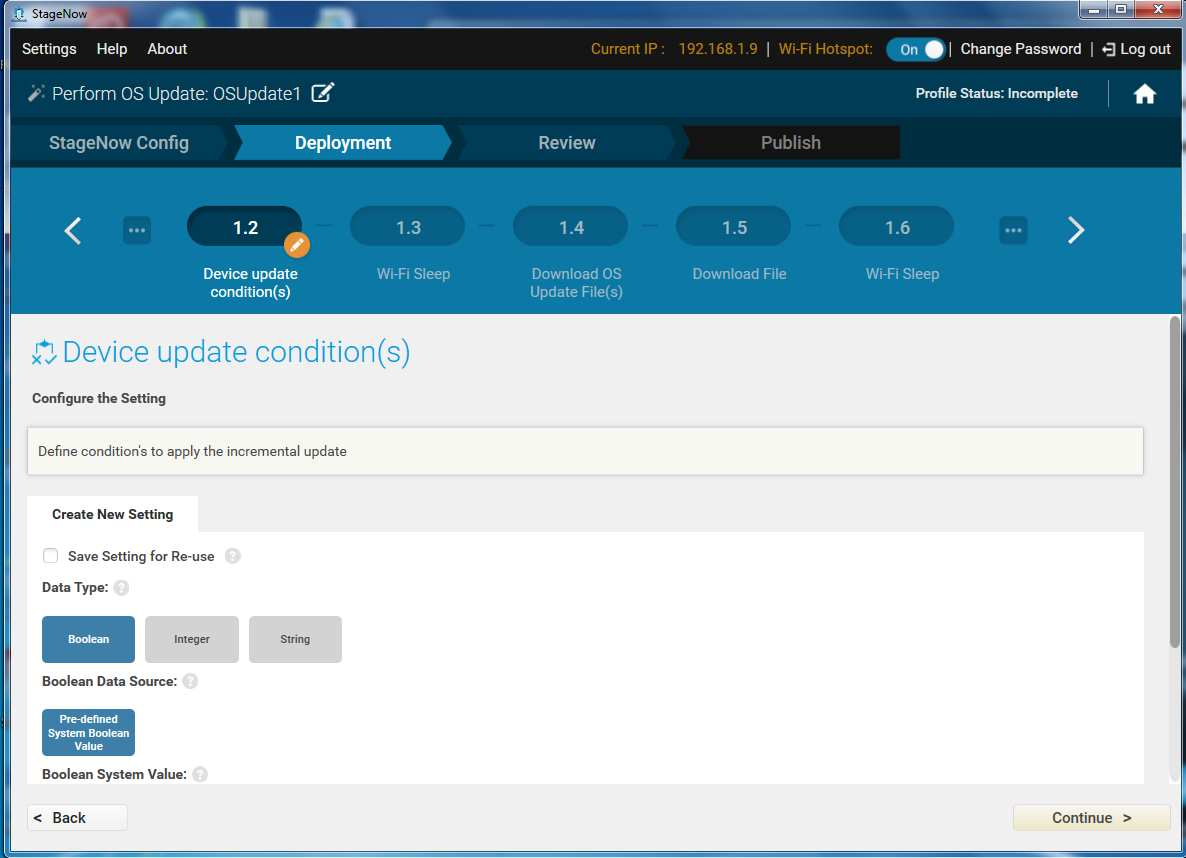
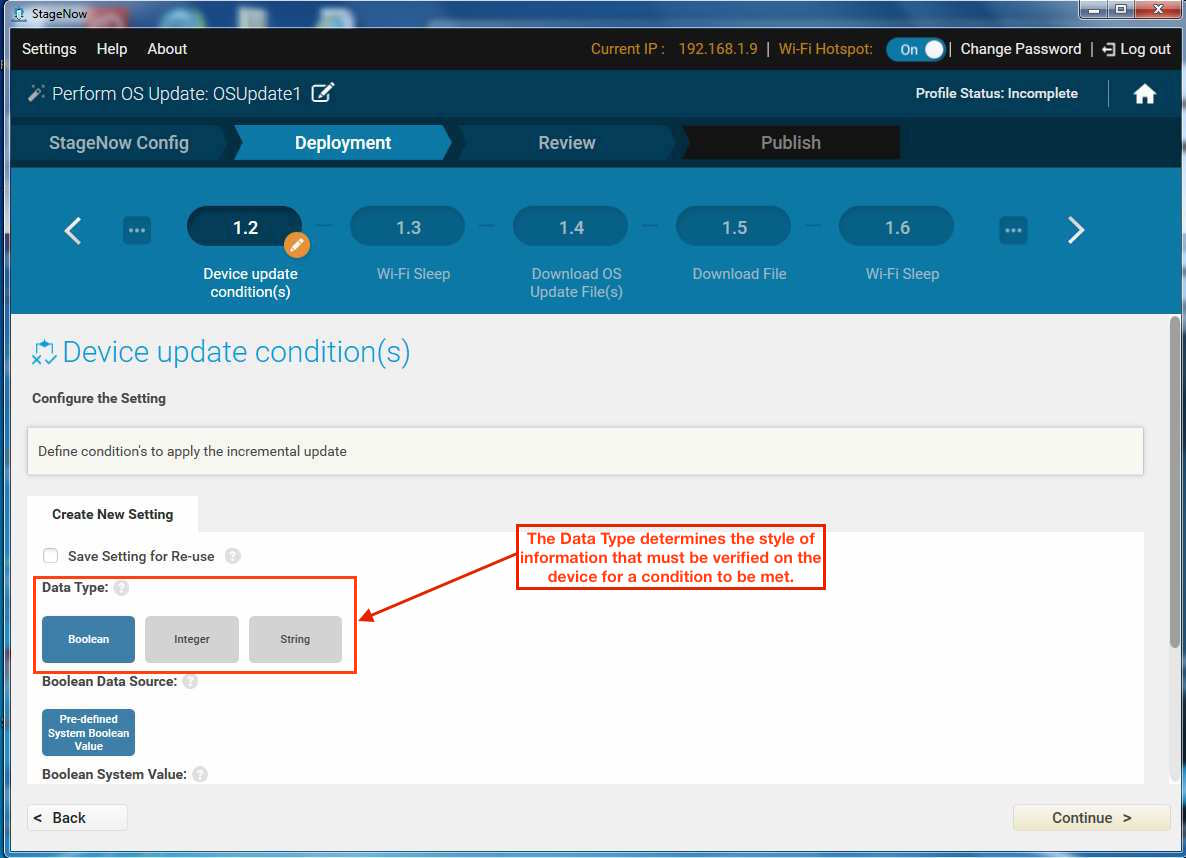
[TUT-23487] SN 2.10 update PerformOSupdate instructions, per eng; clean-up

diff --git a/src/stagenow/2-10/Profiles/osupdate/index.md b/src/stagenow/2-10/Profiles/osupdate/index.md
@@ -4,11 +4,16 @@ layout: guide.html
 product: StageNow
 productversion: '2.10'
 ---
-Use this Wizard to perform an OS update on a device. This applies an update or a patch to the OS by downloading a zip file to the device or using an existing zip file on the device.  This Wizard also allows you to connect to a network. 
 
-##Performing an OS Update
+## Overview
 
-To create a Perform OS Update profile:
+Use this Wizard to perform an OS update on a device. The OS Update action applies an update or patch to the OS by downloading a .zip file to the device or using a .zip file that exists on the device. This Wizard allows connection to a network. 
+
+-----
+
+## Perform OS Update
+
+**To create a "Perform OS Update" profile**:
 
 1. Select Create New Profile.
 
@@ -22,54 +27,60 @@ To create a Perform OS Update profile:
 
 5. To choose to connect to this network using StageNow bar codes, select Yes, and then select Continue. See [Profiles / Connect Network](../../Profiles/ConnectNetwork) for instructions on connecting to a network and populating the settings window. Select Continue when done.
 
-    Note: This wizard includes a Deployment section. Deployment requires that the host computer and the device(s) are on the same network. 
+    **Note**: This wizard includes a Deployment section. Deployment requires that the host computer and the device(s) are on the same network. 
 
 6. If offered, select whether to connect to this network using the Rapid Deployment (RD) Client. Note that the RD Config section only appears if you turned on Legacy Mode in the [Settings](../../gettingstarted?Settings) screen. Select Yes for devices that don't include the StageNow Client. See [Rapid Deployment (RD) Client](../../stageclient?Rapid%20Deployment%20Client) for more information.
 
-7. If you selected Yes, choose whether to set up Wi-Fi options and/or Wi-Fi profiles. See [Setting Types / Wifi mgr](../../csp/wifi).
+7. If you selected Yes, choose whether to set up Wi-Fi options and/or Wi-Fi profiles (see [Setting Types > Wifi mgr](../../csp/wifi)):
 
     ![img](../../images/profiles/OSupdate_deploy1.jpg)
 
 8. Choose a method for performing the OS update, and then select Continue.
 
-    * Select No, I would like to Download the file to push an OS update zip file to the device.
-    * Select Yes, I want to Apply the file to use an OS update zip file that already resides on the device.
+    * Select "No, I would like to Download the file" to push an OS update zip file to the device.
+    * Select "Yes, I want to Apply the file" to use an OS update zip file that already resides on the device.
 
-9. If you selected No, I would like to Download the file: 
+9. If selecting No: 
 
-    a. Select whether or not to prevent Wi-Fi from turning off while downloading. See [Setting Types / Wi-Fi](../../csp/wifi) for information.
+    a. Select whether to prevent Wi-Fi from turning off while downloading (see [Setting Types > Wi-Fi](../../csp/wifi) for more information): 
 
     ![img](../../images/profiles/OSupdate_sleep.jpg)
 
-    b. Enter the information for the ZIP file. See [Setting Types / File](../../csp/file) for more information on the File Manager.
+    b. Enter the information for the .zip file (see [Setting Types > File](../../csp/file) for more information):
 
     ![img](../../images/profiles/OSupdate_setting.jpg)
 
-    c. Select whether or not to allow Wi-Fi to turn off after downloading. See [Setting Types / Wi-Fi](../../csp/wifi) for information.
+    c. Select whether to allow Wi-Fi to turn off after downloading (see [Setting Types > Wi-Fi](../../csp/wifi) for more information):
 
     ![img](../../images/profiles/OSupdate_sleep2.jpg)
 
-
-10. Enter the information for the ZIP file. See [Setting Types / Power](../../csp/power) for more information on the Power Manager.
+10. Enter the information for the .zip file (see [Setting Types > Power](../../csp/power) for more information):
 
    ![img](../../images/profiles/OSupdate_sourcefile.jpg)
 
-11. Select Continue to apply the update and proceed to the [Review window](../../stagingprofiles?Review).
+11. Select "Continue" to apply the update and proceed to the [Review window](../../stagingprofiles?Review).
 
+-----
 
-##Performing an Incremental OS Update
+## Perform Incremental OS Update
 
-An incremental update allows you to perform an OS update on multiple devices, and define update conditions. This feature is only supported by MX 6.0.
+The incremental update is used to perform OS updates on multiple devices based on defined conditions present on specific target devices. For example, this is useful for setting an operation to proceed only on devices with "TC51" in the Product Model field. For more information, see the [Condition Manager guide](../../csp/condition/).  
 
-1. Select Create New Profile.
+> **Incremental OS Update is supported only on devices with MX 6.0 or higher**.
 
-2. Select the MX 6.0 from the drop-down menu.
+-----
 
-3. Select the Perform OS Update Wizard, and select Create.
+**To perform an incremental OS update**:
 
-4. Enter a name for the profile and select Start.
+1. Select "Create New Profile."
 
-5. Select an option for your StageNow network from the drop-down menu:
+2. Select the MX version from the drop-down menu (must be MX 6.0 or higher).
+
+3. Select the "Perform OS Update Wizard" and click "Create" to continue. 
+
+4. Enter a name for the profile; select "Start" when done.
+
+5. Select an option for the StageNow network from the drop-down menu:
 
    * The devices I wish to provision are currently not connected to a network. I will define a network with this profile that will be used for staging.
 
@@ -79,55 +90,56 @@ An incremental update allows you to perform an OS update on multiple devices, an
 
    ![img](../../images/profiles/OSUpdate_6_NetworkType.jpg)
 
-   If you select the second or third option, skip to Step 7. 
+   If selecting the second or third option, skip to Step 7. 
 
-6. To choose to connect to this network using StageNow bar codes, select Yes, and then select Continue. See [Profiles / Connect Network](../../Profiles/ConnectNetwork) for instructions on connecting to a network and populating the settings window. Select Continue when done.
+6. To choose to connect to this network using StageNow barcodes, select "Yes," then click "Continue." See [Profiles / Connect Network](../../Profiles/ConnectNetwork) for instructions on connecting to a network and populating the settings window. Click "Continue" when done.
 
     Note: This wizard includes a Deployment section. Deployment requires that the host computer and the device(s) are on the same network. 
 
 7. In the Deployment section, select Incremental Update from the update type drop-down menu.
-
-  >Note:  
-  >If you select Full OS Update, go to Step 8 of the previous procedure.
-
-
+    **Note**: If selecting Full OS Update, **go to Step 8 of the [previous section](#performosupdate)**.
    ![img](../../images/profiles/OSUpdate_6_UpdateType.jpg)
 
-8. Select Continue on the Begin window to define update conditions for the first device.
+8. Select "Continue" on the "Begin" window to define update conditions for the first device.
 
    ![img](../../images/profiles/OSUpdate_6_Incremental1.jpg)
 
-9. Define the update conditions and select Continue.
-
+9. Define the update conditions and click "Continue" (see the [Condition Manager guide](../../csp/condition/) for more information). <br>
+   The boolean data type (highlighted below) checks for true/false conditions such as whether the device has a valid IP address:  
    ![img](../../images/profiles/OSUpdate_6_Incremental2.jpg)
 
-10. Select whether or not to prevent Wi-Fi from turning off while downloading. See [Setting Types / Wi-Fi](../../csp/wifi) for information.
+   The Integer data type checks for numerical conditions such as battery charge level: 
+   ![img](../../images/profiles/sn_OS_incr1_upl.png)
+
+   The String data type checks for constants such as device model number:  
+   ![img](../../images/profiles/sn_OS_incr_upl.png)
+
+10. Select whether to prevent Wi-Fi from turning off while downloading (see [Setting Types > Wi-Fi](../../csp/wifi) for information):
 
     ![img](../../images/profiles/OSupdate_sleep.jpg)
 
-11. Enter information for the first OS update file, and select Yes to add information for additional files.
+11. Enter information for the first OS update file. Select "Yes" to add information for additional files.
 
     ![img](../../images/profiles/OSUpdate_6_DownloadFile.jpg)
 
-12. When finished entering file information, select No, and then select Continue.
+12. When finished entering file information, select "No" and click Continue.
 
-13. Select whether to download a UPL file, which is required to apply multiple OS update packages at a time. If you select Yes, see [Setting Types / File](../../csp/file) for more information on the File Manager.
+13. **IMPORTANT**: If applying multiple OS update packages at one time, a `.upl` file must also be downloaded to the device (see [Setting Types > File](../../csp/file) for more information).
 
 14. Select whether to change the Wi-Fi sleep policy after download, and select Continue.
 
-15. On the Apply Update screen, enter the information for the UPL/ZIP file, and select Continue. See [Setting Types / File](../../csp/file) for more information on the File Manager.
+15. On the "Apply Update" screen, enter the information for the `.zip` file(s) (and `.upl` file, if applicable), and select "Continue" (see [Setting Types > File](../../csp/file) for more information).
 
 16. Select Continue on the End Device Update Conditions screen.
 
     ![img](../../images/profiles/OSUpdate_6_IncrementalEnd.jpg)
 
-17. Select Yes to add another device update package, and repeat Steps 11 - 19.
+17. To add another device update package, select "Yes" and repeat Steps 11 - 19:
 
     ![img](../../images/profiles/OSUpdate_6_IncrementalAnother.jpg)
 
-18. Select whether to provide an error message if conditional updates fails.
-
-19. Select Continue to apply the update and proceed to the [Review window](../../stagingprofiles?Review).
-
+18. Select whether to provide an error message if any conditional update fails:
     ![img](../../images/profiles/OSUpdate_6_Review.jpg)
+
+19. Select "Continue" to apply the update and proceed to the [Review window](../../stagingprofiles?Review):
 
